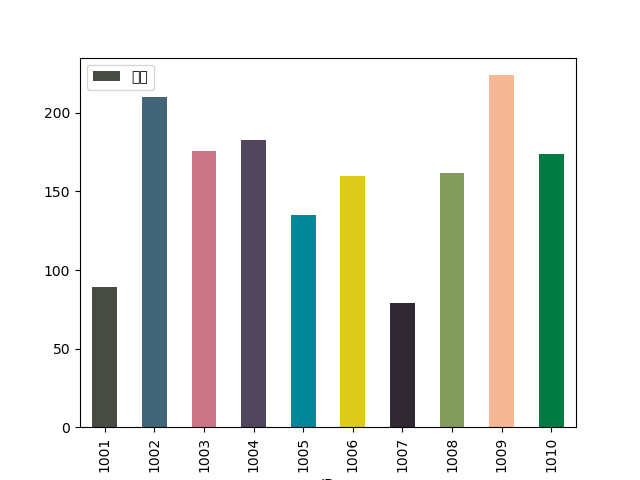
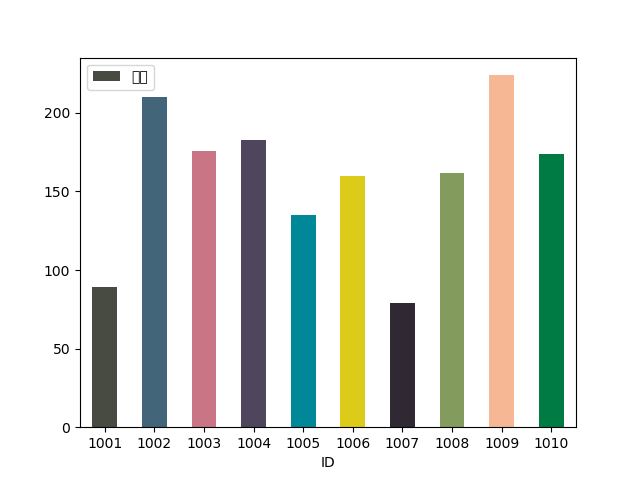
荒井殿と共有するなり

diff --git a/pan/pan10.py b/pan/pan10.py
@@ -6,7 +6,7 @@ df['合計']=df[['国語','数学','英語']].sum(axis=1)
 df['順位']=df['合計'].rank(ascending=False)
 
 color_list=['#474b42','#426579','#c97586','#4f455c','#008899','#dccb18','#302833','#839b5c','#f6b894','#007b43']
-df.plot(kind='bar', x='ID', y='合計', color=color_list)
+df.plot(kind='bar', x='ID', y='合計', color=color_list,rot=0)
 plt.savefig('plot.png')
 plt.show()
 

diff --git a/pan/pan_9.py b/pan/pan_9.py
@@ -5,5 +5,5 @@ df = pd.read_csv('Testdata.csv')
 df['合計']=df[['国語','数学','英語']].sum(axis=1)
 df['順位']=df['合計'].rank(ascending=False)
 
-df.plot(kind='bar', x='ID', y='合計', rot=90)
+df.plot(kind='bar', x='ID', y='合計', rot=0)
 plt.show()
